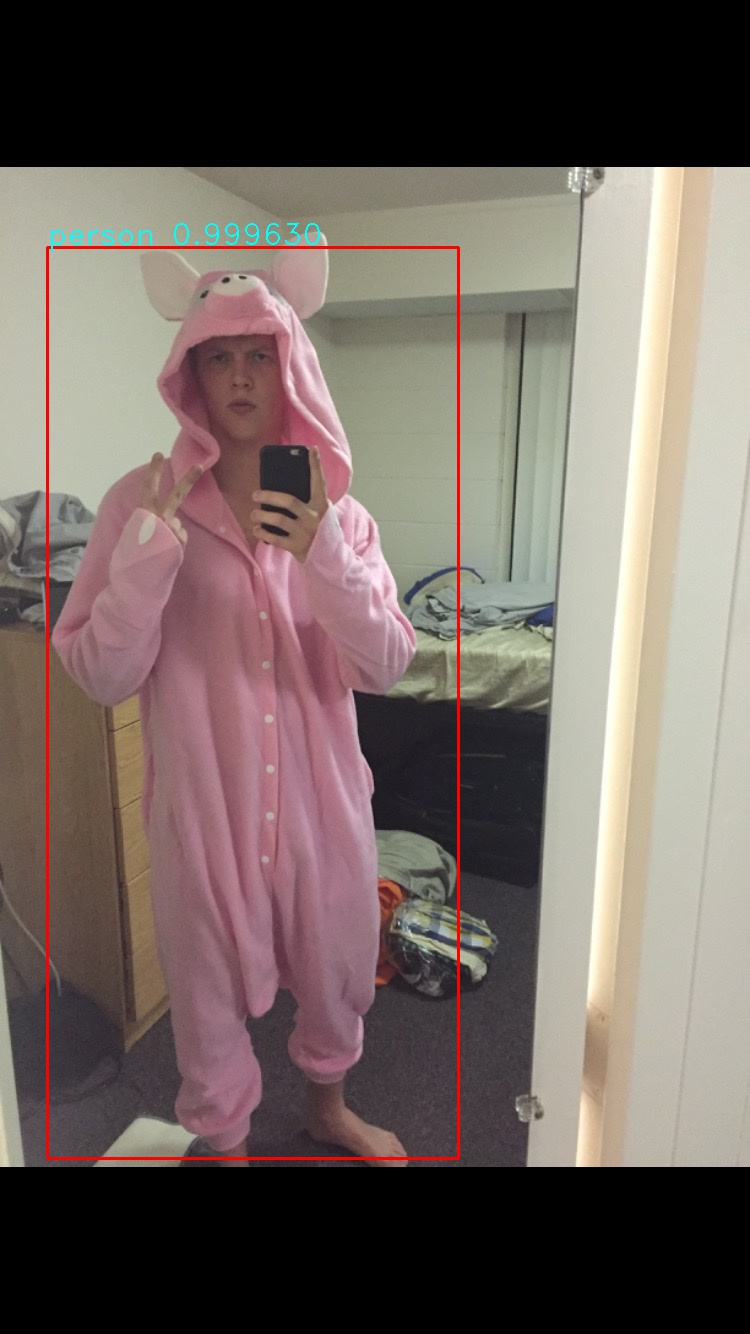
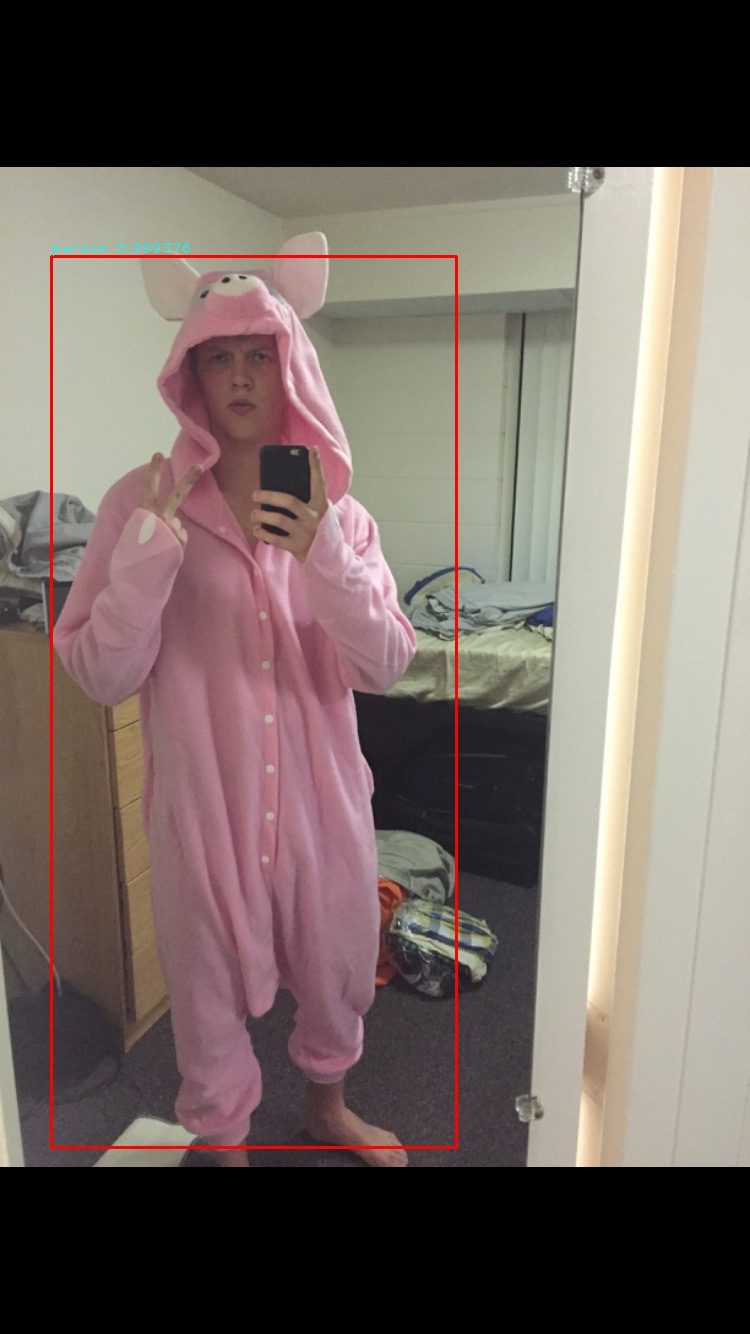
[update] remove model file

Changed region(s): [[0.0613, 0.1537, 0.6133, 0.8913]]

diff --git a/ncnn_ssd/main.cpp b/ncnn_ssd/main.cpp
@@ -46,6 +46,7 @@ void ssd_demo()
 	printf("object number is %d\n", result.size());
 	for (int i = 0; i < int(result.size()); i++)
 	{
+		
 		int x1 = int(result[i].box.left * src_img.cols);
 		int y1 = int(result[i].box.top * src_img.rows);
 		int x2 = int(result[i].box.right * src_img.cols);
@@ -53,11 +54,15 @@ void ssd_demo()
 		
 		float score = result[i].score;
 		int label = result[i].label;
+		if (score < 0.6)
+		{
+			continue;
+		}
 		cv::rectangle(src_img, cv::Rect(x1, y1, (x2 - x1 + 1), (y2 - y1 + 1)), cv::Scalar(0, 0, 255), 2);
-		cv::putText(src_img, VOC_CLASSES[label-1] + " " + std::to_string(score), cv::Point(int(x1), int(y1 - 3)), 2, 1, cv::Scalar(255, 255, 0), 1);
+		cv::putText(src_img, VOC_CLASSES[label-1] + " " + std::to_string(score), cv::Point(int(x1), int(y1 - 3)), 1, 1, cv::Scalar(255, 255, 0), 1);
 		printf("x1:%d y1:%d x2:%d y2:%d score: %.2f label: %d\n ", x1, y1, x2, y2, score, label);
 	}
-
+	cv::imwrite("../data/demo.jpg", src_img);
 	printf("ssd vgg forward spend time:%.3f ms\n", (end_time - start_time));
 	cv::imshow("detect", src_img);
 	cv::waitKey(-1);
